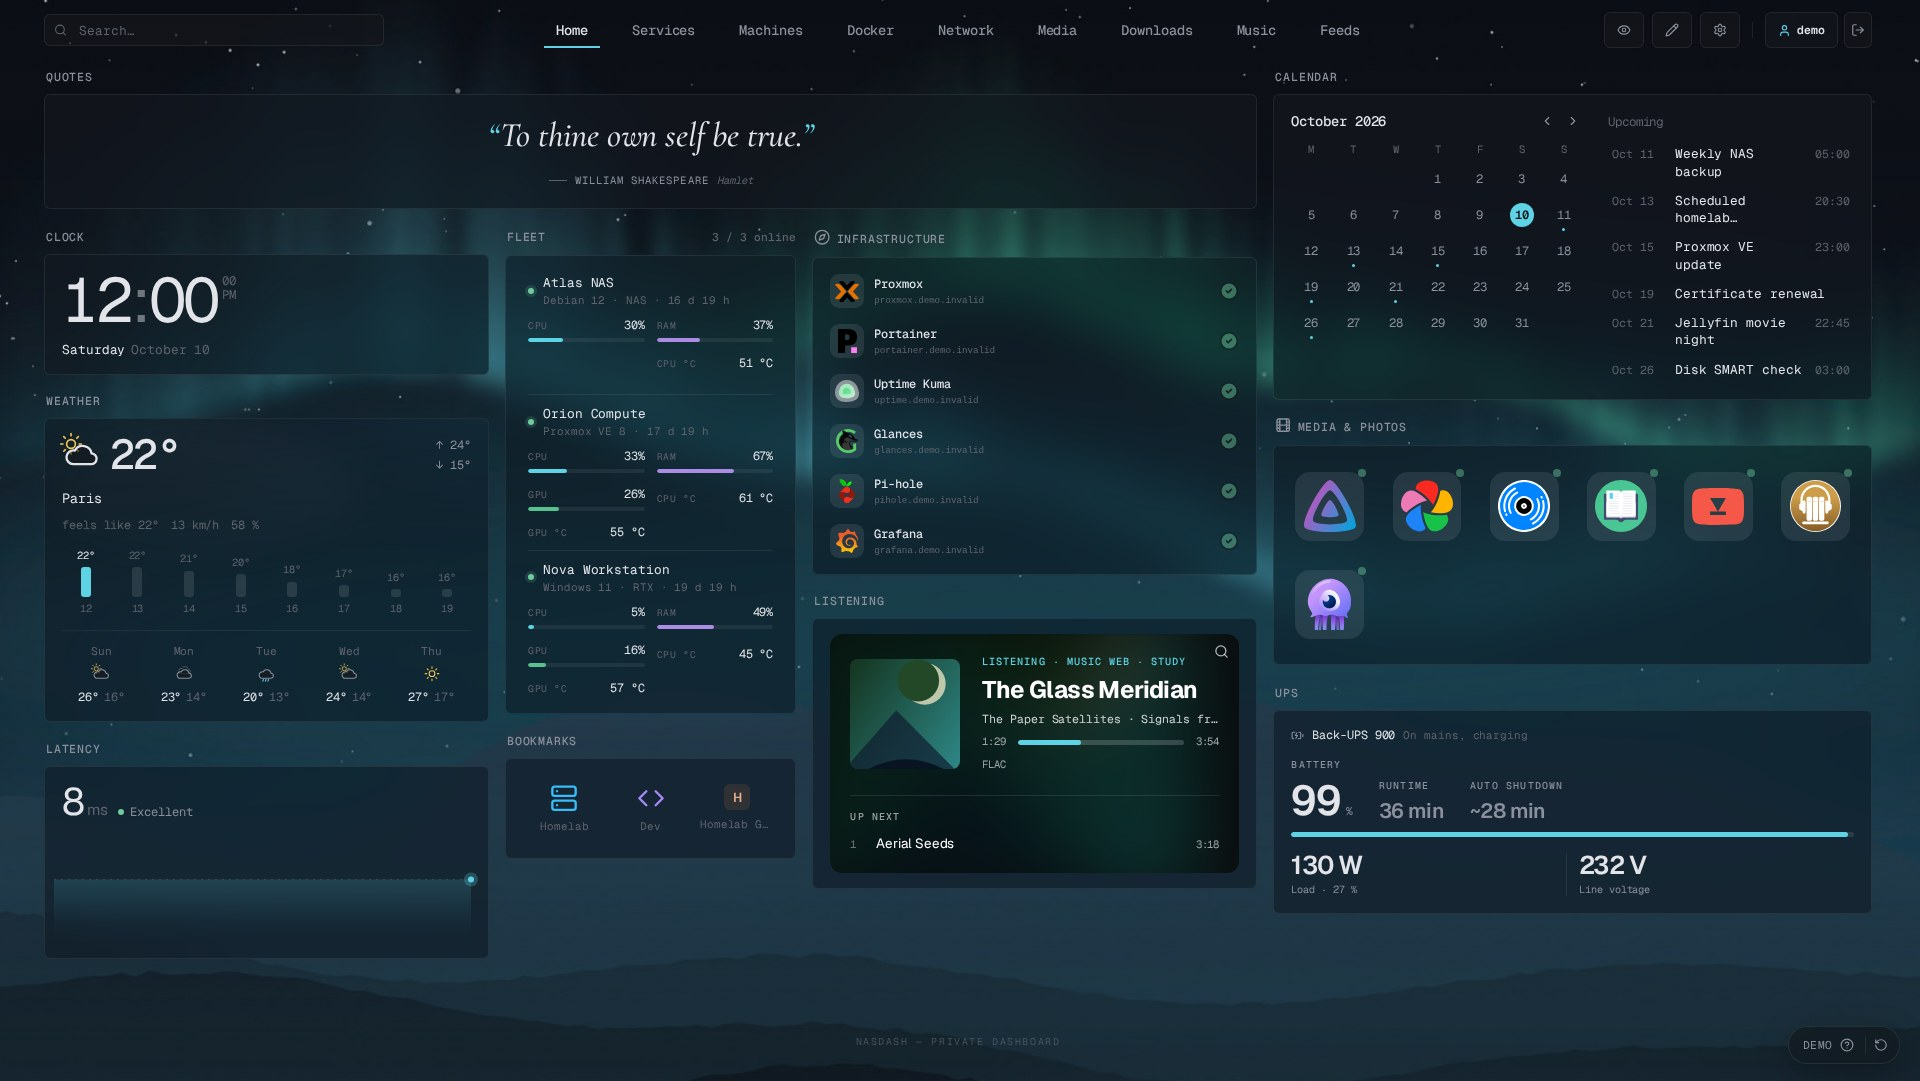
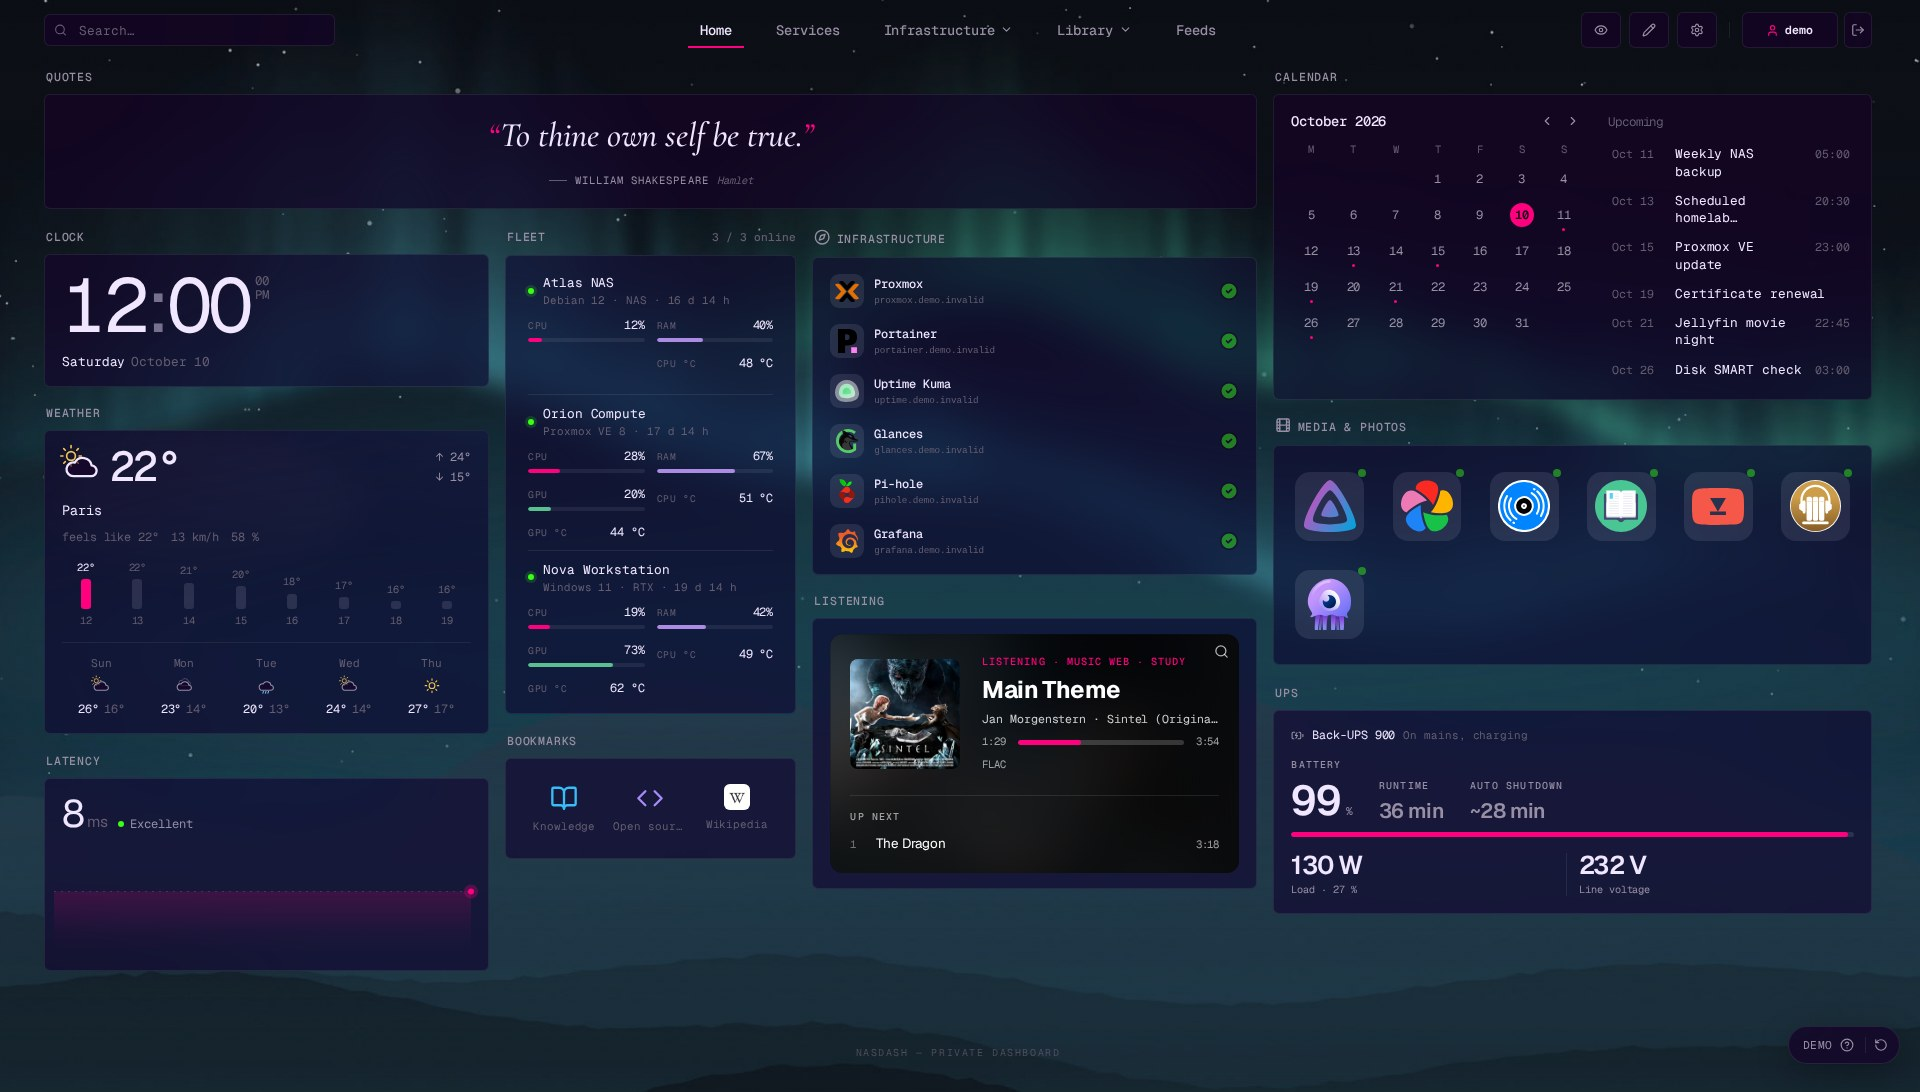
chore: release NasDash 0.4.0 (#169)

diff --git a/README.md b/README.md
@@ -20,7 +20,9 @@
 
 ## Overview
 
-NasDash brings services, machines, Docker, the network, media, downloads, music and photos into one calm, self-hosted dashboard. Each page is a free grid of widgets: 47 of them, from service categories and machine telemetry to Jellyfin, the *arr apps, DNS blocking, VPN and UPS.
+NasDash brings services, machines, Docker, the network, media, downloads, music and photos into one calm, self-hosted dashboard. Each page is a free grid with 61 selectable widget types (64 registered), from service categories and machine telemetry to Jellyfin, the *arr apps, DNS blocking, VPN and UPS.
+
+The page header is made of widgets too: Search, Page menu and Buttons sit on each page, moved and resized in edit mode like the others. Page menus share four styles (tabs, capsule, segmented and icons), alignment, pages per line, an “Others” limit and sub-menus, with an optional override for one menu. Search looks through every widget on the page, and each widget can show or hide its own title.
 
 Configuration stays on your own server in a persistent Docker volume or bind-mounted directory. A new installation starts private, asks for a setup code printed in the container log, and walks you through a short guide. Integrations are optional: the dashboard remains useful as a service cockpit while deeper infrastructure capabilities can be enabled deliberately.
 
@@ -91,6 +93,7 @@ Theme, wallpaper, and glass are first-class product surfaces, not a single defau
 - Docker containers, logs, images, volumes, and guarded actions through Portainer, Dockhand, an optional socket proxy, or a Docker-compatible API/socket. Search, filter and sort resource lists, paginate them, inspect tags and linked containers, and confirm selected unused resources before removal. Page selection stays in the table header on desktop and mobile; usage counts sit beside Refresh.
 - Network topology editor with groups, links, and service/device associations.
 - Composable pages: every page is a free grid of widgets you can move, resize and add from a library, with ready-made official pages and appearance profiles.
+- Phone navigation: a large page name, round search and ⋯ buttons, a menu sheet, swiping between pages and page dots. Settings fill the screen with grouped rows; the Order list in edit mode changes widget order and visibility for phones and tablets.
 - Custom API connections for JSON endpoints, fetched on the server with configurable authentication; widgets receive selected values while connection addresses and credentials stay private.
 - Sonarr, Radarr and Lidarr calendars and queues, *arr health, Prowlarr indexers, and qBittorrent, Transmission, Deluge, SABnzbd and NZBGet download status. Administrators can pause or resume an item or a whole client; demo controls stay offline. *arr disk readings come from media root folders, with only folder names returned. Multiple saved sources share a widget; credentials stay on the server.
 - Coming soon combines *arr calendars, library follow-ups, and public catalogue watchlists or discovery (TVMaze, Kitsu, optional AniList, and TMDB with a saved API key). Catalogue searches are administrator-only; public posters use allowlisted catalogue CDNs. It can follow series in a Jellyfin, Emby or Plex library through TVMaze: only provider IDs leave the server. Empty calendars show the next releases, empty queues show recent imports, downloads include available session totals and completions, and indexers include hourly search activity.
@@ -247,6 +250,8 @@ See [TESTING.md](TESTING.md) and [docs/SCREENSHOTS.md](docs/SCREENSHOTS.md) for 
 ## Public demo
 
 The [public demo](https://demo.nasdash.lucas-homelab.fr) uses deterministic fictional services, addresses, metrics, logs, and actions. Modifications are temporary and no private Docker host, Tailscale account, or personal infrastructure is reachable. See [demo mode](https://docs.nasdash.lucas-homelab.fr/en/docs/operations/demo-mode).
+
+Films, series, music, books, comics and photos in the demo are real, freely licensed works; bookmarks link to real public sites. Artwork credits are included in [public/demo/art/CREDITS.md](public/demo/art/CREDITS.md).
 
 The public demo uses Vercel Web Analytics for visitor and page-view counts only when hosted on Vercel with `NASDASH_DEMO_MODE=true`. Analytics is disabled in normal self-hosted installations and local demo runs.
 

diff --git a/CHANGELOG.md b/CHANGELOG.md
@@ -6,6 +6,8 @@ The format follows [Keep a Changelog](https://keepachangelog.com/en/1.1.0/), and
 
 ## [Unreleased]
 
+## [0.4.0] - 2026-11-23
+
 ### Upgrading from 0.3.10
 
 - Pull and recreate NasDash with the same data mount. On first start, the header becomes widgets on every page: the search, the page menu and the buttons are placed where your header showed them, and the rest of each page moves down by the header's height, so your pages look the same. The previous pages file is kept as `pages.v5.json` next to `pages.json`. Roll back by recreating the recorded `0.3.10` image and putting `pages.v5.json` back as `pages.json`.
@@ -711,7 +713,8 @@ The first release of the new NasDash: every page is a free grid of widgets, the 
 
 Earlier development remains available in Git history; this changelog does not invent releases that were never deliberately published.
 
-[Unreleased]: https://github.com/lucas-lepajollec/nasdash/compare/v0.3.10...HEAD
+[Unreleased]: https://github.com/lucas-lepajollec/nasdash/compare/v0.4.0...HEAD
+[0.4.0]: https://github.com/lucas-lepajollec/nasdash/compare/v0.3.10...v0.4.0
 [0.3.10]: https://github.com/lucas-lepajollec/nasdash/compare/v0.3.9...v0.3.10
 [0.3.9]: https://github.com/lucas-lepajollec/nasdash/compare/v0.3.8...v0.3.9
 [0.3.8]: https://github.com/lucas-lepajollec/nasdash/compare/v0.3.7...v0.3.8
